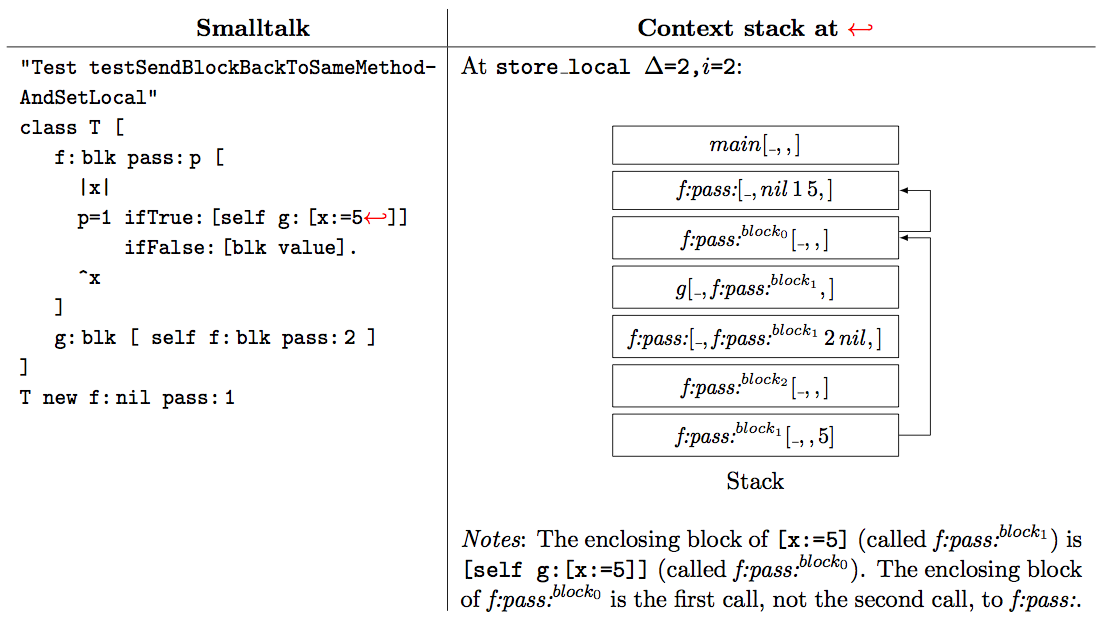
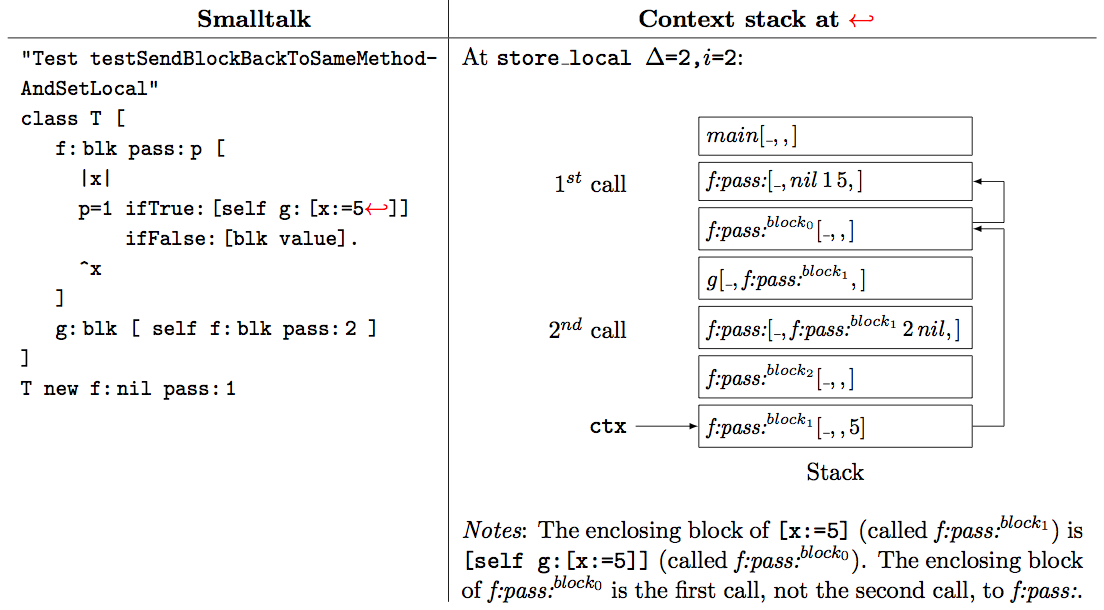
update smalltalk project

diff --git a/projects/bytecode.tex b/projects/bytecode.tex
@@ -308,8 +308,8 @@ block/.style={
 draw,
 fill=white,
 rectangle, 
-text width={4.3cm},
-align=center,
+text width={4.1cm},
+align=left,
 font=\small}]
 %  MainClass>>main[][], T>>f:pass:[nil, 1, 5][], T>>f:pass:-block0[][], T>>g:[f:pass:-block1][], T>>f:pass:[f:pass:-block1, 2, nil][], T>>f:pass:-block2[][], T>>f:pass:-block1[][5]
 
@@ -325,6 +325,10 @@ font=\small}]
 \node[draw=none,,below=0.1cm of a]{Stack};
 \draw[-latex] (a.east) -- ++(5mm,0) |- (e.east);
 \draw[-latex] ($(e.east)+(0,.1)$) -- ++(5mm,0) |- ($(f.east)$);
+\node[left=of f] {$1^{st}$ call};
+\node[left=of c] {$2^{nd}$ call};
+\node[left=of a](x) {{\tt ctx}};
+\draw[-latex] (x.east) |- (a.west);
 \end{tikzpicture}
 \end{center}
 {\em Notes}:  The enclosing block of {\tt [x:=5]} (called $\text{\em f:pass:}^{block_1}$) is {\tt [self g:[x:=5]]} (called $\text{\em f:pass:}^{block_0}$). The enclosing block of $\text{\em f:pass:}^{block_0}$ is the first call, not the second call, to $\text{\em f:pass:}$.

diff --git a/projects/smalltalk.md b/projects/smalltalk.md
@@ -195,7 +195,13 @@ And now here is an example that illustrates the critical difference between the 
 
 <img src="images/smalltalk-block-delta.png" width=600 align=middle>
 
-The enclosing context jumps and invoking context because `g` is evaluating the `f-block0`, not `f`.
+The enclosing context jumps an invoking context because `g` is evaluating the `f-block0`, not `f`.
+
+Let's look at another example that references a local outside of its scope, but using the stack notation from the operational semantics so I don't have to draw everything out. The example is complicated because method `f:pass:` is recursive. The `main` calls `f:pass:`, which passes `f:pass:-block1` to `g:`, which passes it back to `f:pass:`.  Finally, `f:pass:-block2`, `[blk value]`, evaluates the `f:pass:-block1`, `[x:=5]`, block back in the same function, `f:pass:`.
+
+<img src="images/smalltalk-stack5.png" width=700 align=middle>
+
+The critical idea is that we have to choose the appropriate `BlockContext` object for `f:pass:` since there are two recursive invocations on the stack. If we were to look up the invoking context chain delta=2 nodes, we would land at the second (recursive) call rather than the first call. Following the enclosing context chain lets us ignore the invocation chain and directs us to the appropriate enclosing context that holds the variable we need.
 
 <img src="images/smalltalk-stack1.png" width=700 align=middle>
 
@@ -204,8 +210,6 @@ The enclosing context jumps and invoking context because `g` is evaluating the `
 <img src="images/smalltalk-stack3.png" width=700 align=middle>
 
 <img src="images/smalltalk-stack4.png" width=700 align=middle>
-
-<img src="images/smalltalk-stack5.png" width=700 align=middle>
 
 ## Compilation
 
